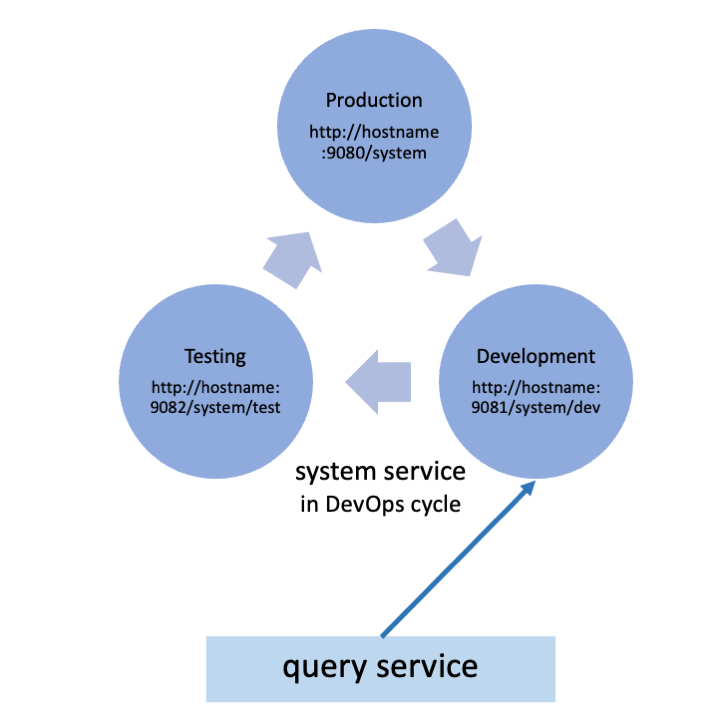
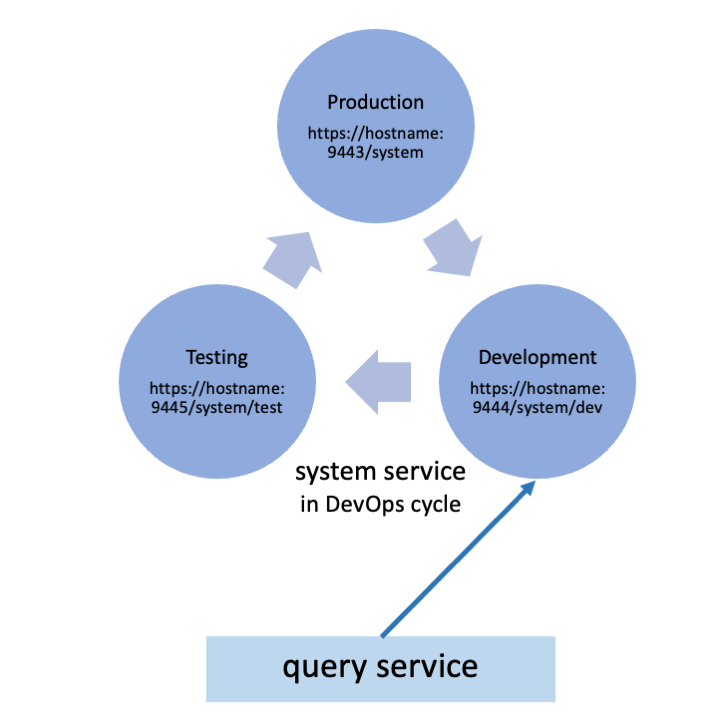
Use https protocal to access the system service (#31)
* use https instead of http

* update the summary of Dockeriles

* make OL operator to deploy tha app correctly

* update diagrams size

* update diagrams size

* update diagrams size

* fix https not work locally

* add test script to test the deploy.yaml on SN

* add test script to test the deploy.yaml on SN

* add test script to test the deploy.yaml on SN

diff --git a/finish/query/src/main/java/io/openliberty/guides/query/SystemResource.java b/finish/query/src/main/java/io/openliberty/guides/query/SystemResource.java
@@ -34,8 +34,8 @@ import jakarta.ws.rs.core.MediaType;
 public class SystemResource {
 
     @Inject
-    @ConfigProperty(name = "system.httpPort")
-    private String systemHttpPort;
+    @ConfigProperty(name = "system.httpsPort")
+    private String systemHttpsPort;
 
     @Inject
     @ConfigProperty(name = "system.user")
@@ -58,16 +58,18 @@ public class SystemResource {
         SystemClient systemClient = null;
         Properties p = new Properties();
 
+        String uriString = "https://" + hostname + ":" + systemHttpsPort
+                           + "/" + systemContextRoot;
+
         try {
-            String uriString = "http://" + hostname + ":" + systemHttpPort
-                               + "/" + systemContextRoot;
             URI customURI = URI.create(uriString);
             systemClient = RestClientBuilder.newBuilder()
                 .baseUri(customURI)
                 .register(UnknownUriExceptionMapper.class)
                 .build(SystemClient.class);
         } catch (Exception e) {
-            p.put("fail", "Failed to create the client " + hostname + ".");
+            e.printStackTrace(System.out);
+            p.put("fail", "Failed to create the client by " + uriString + ".");
             return p;
         }
 
@@ -80,6 +82,7 @@ public class SystemResource {
             p.put("os.name", systemClient.getProperty(authHeader, "os.name"));
             p.put("java.version", systemClient.getProperty(authHeader, "java.version"));
         } catch (Exception e) {
+            e.printStackTrace(System.out);
             p.put("fail", "Failed to reach the client " + hostname + ".");
             return p;
         } finally {

diff --git a/start/query/src/main/java/io/openliberty/guides/query/SystemResource.java b/start/query/src/main/java/io/openliberty/guides/query/SystemResource.java
@@ -34,8 +34,8 @@ import jakarta.ws.rs.core.MediaType;
 public class SystemResource {
 
     @Inject
-    @ConfigProperty(name = "system.httpPort")
-    private String systemHttpPort;
+    @ConfigProperty(name = "system.httpsPort")
+    private String systemHttpsPort;
 
     @Inject
     @ConfigProperty(name = "system.user")
@@ -58,16 +58,18 @@ public class SystemResource {
         SystemClient systemClient = null;
         Properties p = new Properties();
 
+        String uriString = "https://" + hostname + ":" + systemHttpsPort
+                           + "/" + systemContextRoot;
+
         try {
-            String uriString = "http://" + hostname + ":" + systemHttpPort
-                               + "/" + systemContextRoot;
             URI customURI = URI.create(uriString);
             systemClient = RestClientBuilder.newBuilder()
                 .baseUri(customURI)
                 .register(UnknownUriExceptionMapper.class)
                 .build(SystemClient.class);
         } catch (Exception e) {
-            p.put("fail", "Failed to create the client " + hostname + ".");
+            e.printStackTrace(System.out);
+            p.put("fail", "Failed to create the client by " + uriString + ".");
             return p;
         }
 
@@ -80,6 +82,7 @@ public class SystemResource {
             p.put("os.name", systemClient.getProperty(authHeader, "os.name"));
             p.put("java.version", systemClient.getProperty(authHeader, "java.version"));
         } catch (Exception e) {
+            e.printStackTrace(System.out);
             p.put("fail", "Failed to reach the client " + hostname + ".");
             return p;
         } finally {

diff --git a/finish/query/src/test/java/it/io/openliberty/guides/query/QueryEndpointIT.java b/finish/query/src/test/java/it/io/openliberty/guides/query/QueryEndpointIT.java
@@ -33,7 +33,7 @@ public class QueryEndpointIT {
 
     @BeforeEach
     public void setup() {
-      client = ClientBuilder.newClient();
+        client = ClientBuilder.newClient();
     }
 
     @AfterEach
